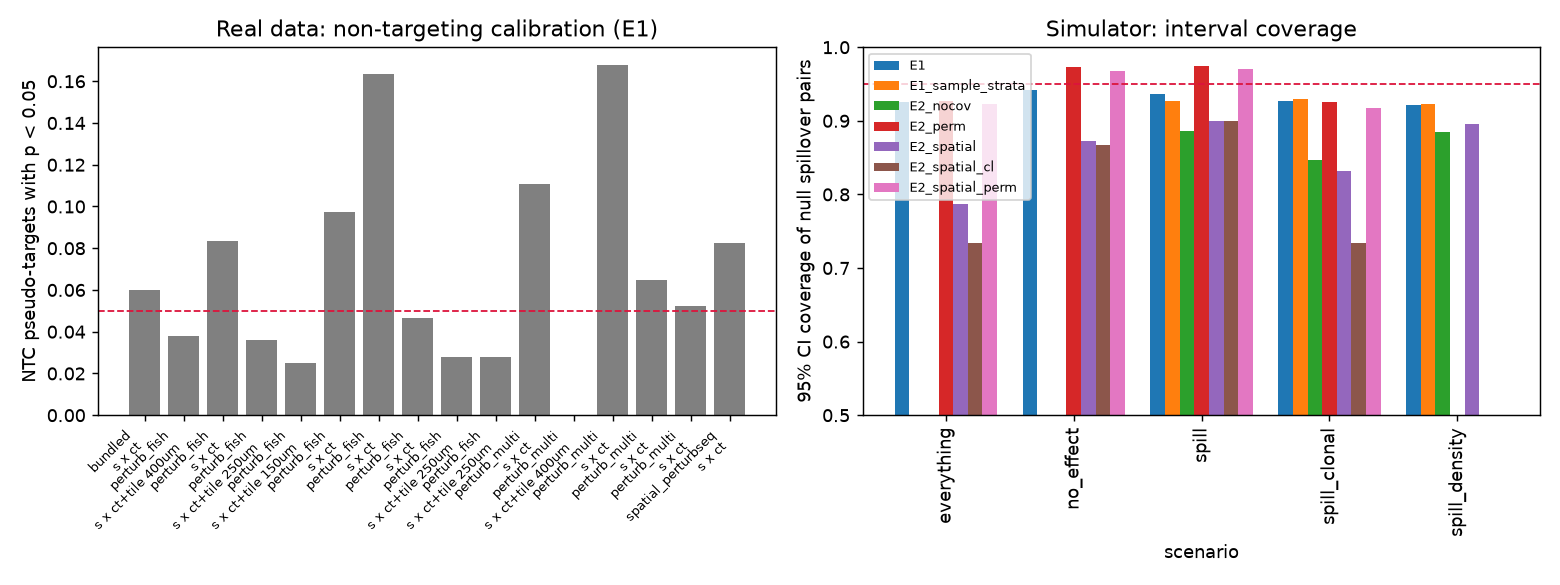
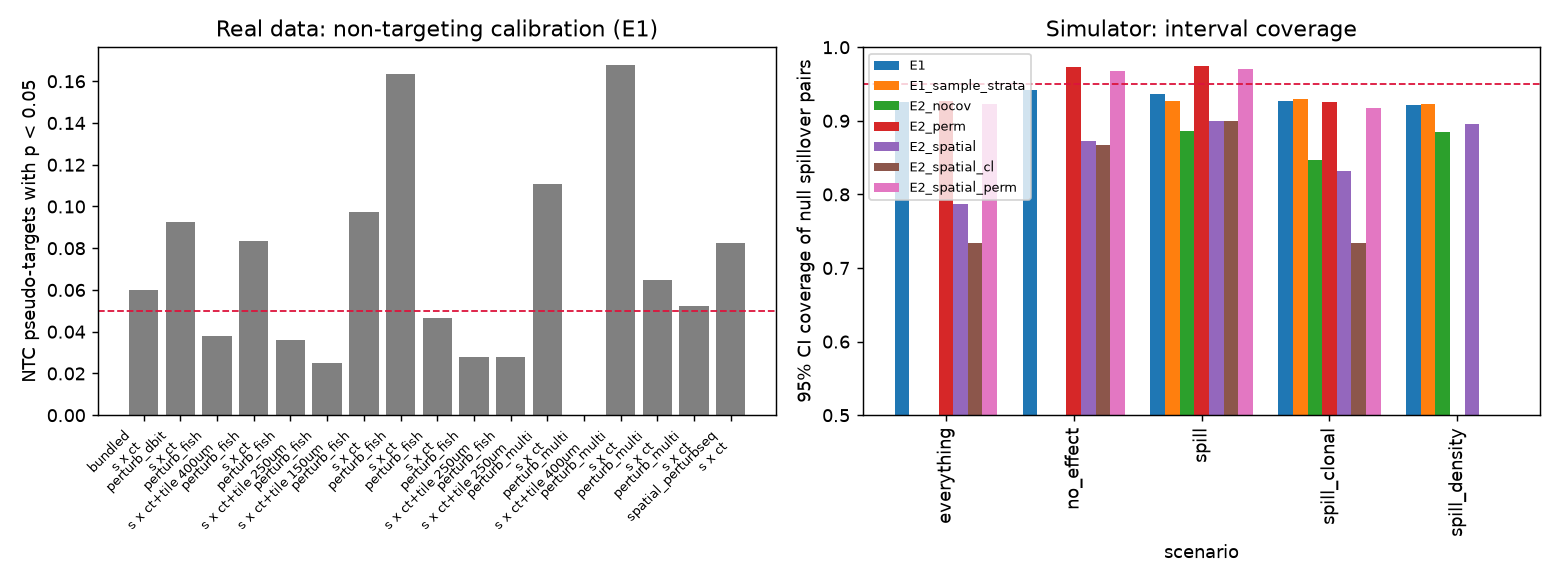
Perturb-DBiT exploratory E2: not calibrated at pixel level (NTC FDP about 0.4)

Changed region(s): [[0.0923, 0.1231, 0.4615, 0.7077], [0.0615, 0.7385, 0.4615, 0.9231]]

diff --git a/paper/main.tex b/paper/main.tex
@@ -216,7 +216,13 @@ biology of a tumour-cell NF-$\kappa$B knockout changing cytokine output and what
 niche confounding produces; given the gate failure, it is a hypothesis list. In
 Perturb-Multi, \MultiSpillHits{} exploratory spillover calls over \MultiNTests{} tests do not
 exceed the NTC-scaled expectation (NTC-estimated false discovery proportion \MultiSpillFdp):
-no spillover is detectable in the 209-gene liver panel with any configuration tried.
+no spillover is detectable in the 209-gene liver panel with any configuration tried. On Perturb-DBiT
+(exploratory: pixel units, unperturbed pixels as controls), the same E2 configuration is not
+calibrated: of the NTC pseudo-target tests, a fraction \DbitNtcP{} have $p < 0.05$ and
+\DbitNtcQ{} pass the 10\% FDR threshold, so the NTC-estimated false discovery proportions of
+the autonomous and spillover calls are \DbitAutoFdp{} and \DbitSpillFdp{} over \DbitNTests{}
+tests. Each 20 to 50~$\mu$m pixel mixes several cells and their guides, so this is the expected
+failure of a pixel-level design rather than evidence about spillover.
 
 \begin{figure}[t]
 \centering

diff --git a/scripts/make_figures.py b/scripts/make_figures.py
@@ -276,6 +276,15 @@ def numbers(fish: Path, multi: Path, gate: Path | None) -> None:
         else:
             macros[name] = fmt.format(value)
 
+    # exploratory pixel-level E2 run on Perturb-DBiT (unperturbed-pixel controls, A4)
+    dbit = sorted(RES.glob("*/perturb_dbit_calibration.json"), key=lambda q: q.stat().st_mtime)
+    r = json.loads(dbit[-1].read_text()) if dbit else {}
+    add("DbitNTests", int(r.get("n_tests", 0)))
+    add("DbitNtcP", r.get("ntc_fraction_p_below_0.05"))
+    add("DbitNtcQ", r.get("ntc_fraction_q_below_fdr"))
+    add("DbitAutoFdp", r.get("ntc_fdp_autonomous"), "{:.2f}")
+    add("DbitSpillFdp", r.get("ntc_fdp_spillover"), "{:.2f}")
+
     for tag, d in (("Fish", fish), ("Multi", multi)):
         cal = glob.glob(str(d / "*_calibration.json"))
         r = json.loads(Path(cal[0]).read_text()) if cal else {}

diff --git a/paper/tables/numbers.tex b/paper/tables/numbers.tex
@@ -1,3 +1,8 @@
+\newcommand{\DbitNTests}{1,064,000}
+\newcommand{\DbitNtcP}{0.093}
+\newcommand{\DbitNtcQ}{0.092}
+\newcommand{\DbitAutoFdp}{0.41}
+\newcommand{\DbitSpillFdp}{0.38}
 \newcommand{\FishNtcPAuto}{0.053}
 \newcommand{\FishNtcPRingZero}{0.039}
 \newcommand{\FishNtcPRingOne}{0.038}

diff --git a/results/summary/summary.md b/results/summary/summary.md
@@ -7,6 +7,7 @@ Generated by scripts/aggregate_results.py. Numbers come from results/<hash>/.
 | run        | dataset            | estimator   |   spatial_basis | strata                |   tile_um | control_policy   | clean_controls   |   n_perm |   n_tests |   n_ntc_tests |     ntc_p05 |       ntc_q10 |   ntc_p05_auto |   ntc_p05_r0 |   ntc_p05_r1 |   ntc_p05_r2 |   autonomous_hits |   auto_fdp_ntc |   spillover_hits |   spill_fdp_ntc |
 |:-----------|:-------------------|:------------|----------------:|:----------------------|----------:|:-----------------|:-----------------|---------:|----------:|--------------:|------------:|--------------:|---------------:|-------------:|-------------:|-------------:|------------------:|---------------:|-----------------:|----------------:|
 | 2018dbfee2 | bundled            | E1          |               0 | sample+cell_type      |         0 | unperturbed      | False            |       20 |      9000 |           200 |   0.06      |   0.005       |    nan         |    0.02      |    0.04      |    0.09      |                19 |       0        |               60 |       0.620833  |
+| 8d9f6e37b2 | perturb_dbit       | E2          |              10 | sample+cell_type      |         0 | unperturbed      | False            |      nan |   1064000 |          8000 |   0.09275   |   0.091625    |      0.0975    |    0.0955    |    0.0895    |    0.0885    |             62192 |       0.411757 |           186572 |       0.381343  |
 | 055d929ee0 | perturb_fish       | E1          |               0 | sample+cell_type+tile |       400 | ntc              | True             |      200 |      7500 |          1500 |   0.038     |   0           |    nan         |  nan         |    0.024     |    0.045     |                 0 |     nan        |                3 |       0         |
 | 5d30bb4682 | perturb_fish       | E1          |               0 | sample+cell_type      |         0 | ntc              | True             |      200 |     47500 |          5500 |   0.0832727 |   0.00981818  |      0.0806667 |    0.134     |    0.0613333 |    0.074     |               527 |       0.384567 |              319 |       0.713166  |
 | 8c106a7091 | perturb_fish       | E1          |               0 | sample+cell_type+tile |       250 | ntc              | True             |      200 |      4000 |          1000 |   0.036     |   0           |    nan         |  nan         |  nan         |    0.036     |                 0 |     nan        |                2 |       0         |

diff --git a/NOTEBOOK.md b/NOTEBOOK.md
@@ -703,3 +703,14 @@ identified rings coincide (20 to 40 and 40 to 60 um in both); 2,500 tests, NTC p
 fraction 0.028, 0 autonomous hits, 10 spillover hits. The pre-registered criterion of fewer
 than 10 spillover hits is missed by one call in both binnings; calibration and the autonomous
 null are unchanged. Conclusion unchanged.
+
+## 2026-10-09 00:03 Perturb-DBiT exploratory E2 (A4) completed
+
+Run results/8d9f6e37b2 (configs/e2_perturb_dbit.yaml; finished 2026-10-05 10:48 in tmux,
+recorded now). 22,421 pixels, 540 targets, 1,064,000 tests of which 8,000 on NTC
+pseudo-targets. NTC p < 0.05 fraction 0.093 (rings -1 to 2: 0.098, 0.096, 0.090, 0.089);
+NTC q < 0.10 fraction 0.092. NTC-estimated FDP 0.41 for the 62,192 autonomous calls and 0.38
+for the 186,572 spillover calls. As declared in A4 this run is exploratory: pixel units mix
+cells and guides, and the unperturbed-pixel controls carry the clonal niche. It is reported
+in the cross-technology table and the manuscript only as a calibration failure. Conclusions
+unchanged.

diff --git a/STATUS.md b/STATUS.md
@@ -1,6 +1,6 @@
 # STATUS
 
-Last updated: 2026-10-05 10:40
+Last updated: 2026-10-09 00:03
 
 ## Achieved
 
@@ -48,7 +48,9 @@ Last updated: 2026-10-05 10:40
 
 ## Running or next
 
-- Exploratory Perturb-DBiT E2 still in tmux (ss_dbit); pixel-level, no calibration possible.
+- Exploratory Perturb-DBiT E2 finished (results/8d9f6e37b2): not calibrated (NTC q < 0.10
+  fraction 0.092, NTC-estimated FDP about 0.4), as expected for pixel units; in the manuscript
+  and NOTEBOOK.
 - Not done, by design or by data: PyPI release, Zenodo deposit and public visibility (owner's
   calls); DepMap and Open Targets checks (no calibrated hit set); sibling model with local
   autonomous profiles; mask-based edge distance; E4 uncertainty.
